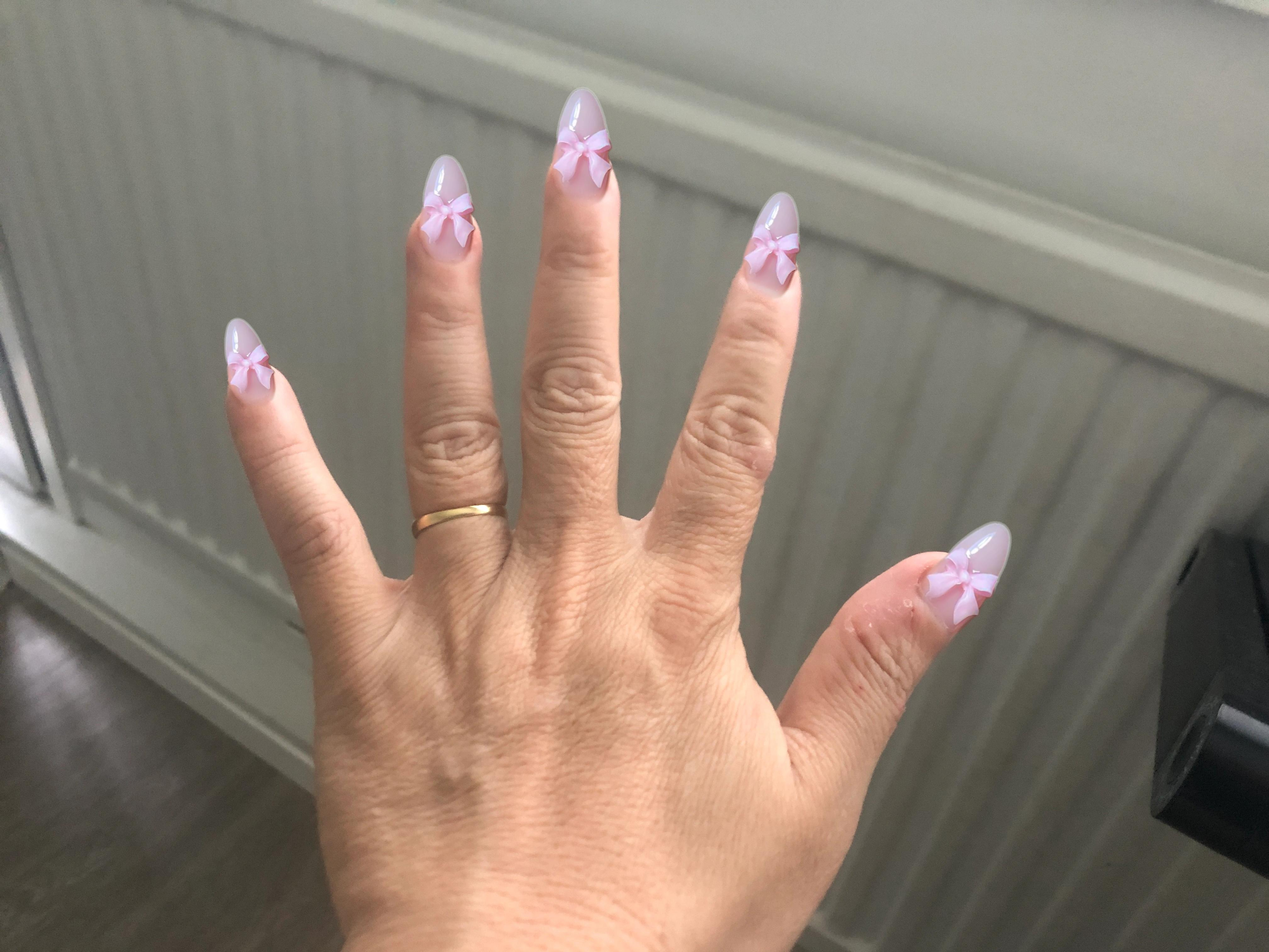
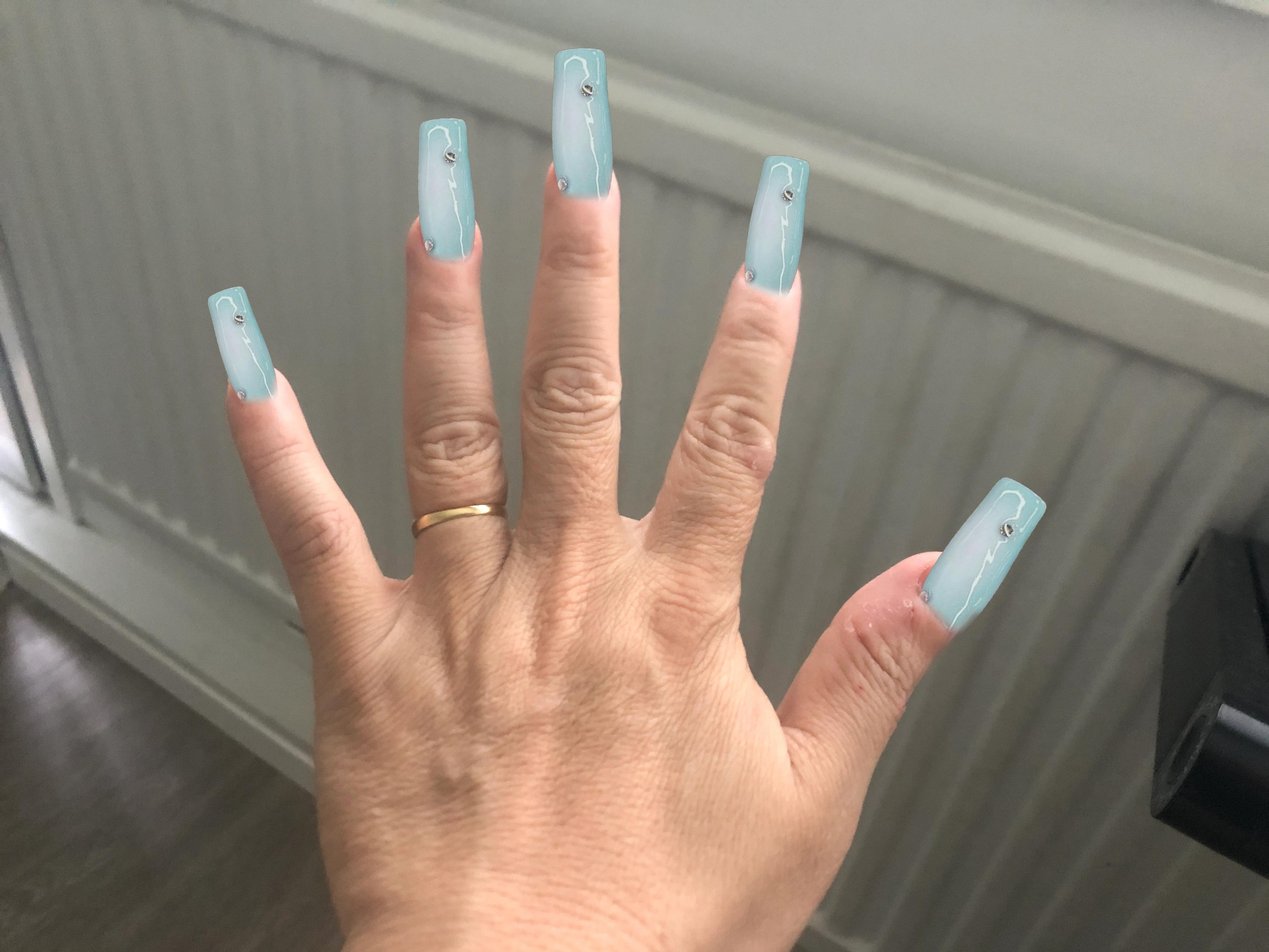
feat: improve static nail painting with per-pixel HSV color matching and normalized depth brightness

diff --git a/experiments/static-painting.py b/experiments/static-painting.py
@@ -1,20 +1,88 @@
 import json
 import sys
 import os
+import colorsys
 
 sys.path.insert(0, os.path.abspath(os.path.join(os.path.dirname(__file__), "..")))
 
 from app.config import MAX_DETECTION_DIM
 from app.services.hand_detector import detect_hands
 from app.services.nail_detector import detect_nails, filter_nails_by_hands
-from PIL import Image, ImageDraw, ImageFilter, ImageChops, ImageOps, ImageEnhance
+from PIL import Image, ImageDraw, ImageFilter, ImageChops, ImageOps, ImageEnhance, ImageStat
 import math
 
-GAUSSIAN_BLUR=24
-DEPTH_BRIGHTNESS_MULTIPLIER=10
 
 ORIGINAL_IMAGE = "sample-images/hand.webp"
-REFERENCE_IMAGE = "sample-images/sample.png"
+REFERENCE_IMAGE = "sample-images/sample-2.png"
+
+
+GAUSSIAN_BLUR=12
+
+# Color matching defaults
+COLOR_MATCH_HUE_SHIFT = 0.04       # max hue shift toward base image (0-1, fraction of hue circle)
+COLOR_MATCH_SATURATION = 0.15      # how much to blend saturation toward base image (0-1)
+COLOR_MATCH_BRIGHTNESS = 0.2       # how much to blend brightness toward base image (0-1)
+
+
+def get_base_image_color_profile(base_image):
+    """Analyze base image and return average HSV values."""
+    small = base_image.resize((64, 64), Image.Resampling.LANCZOS)
+    stat = ImageStat.Stat(small)
+    r_mean = stat.mean[0] / 255.0
+    g_mean = stat.mean[1] / 255.0
+    b_mean = stat.mean[2] / 255.0
+    h, s, v = colorsys.rgb_to_hsv(r_mean, g_mean, b_mean)
+    return {"hue": h, "saturation": s, "brightness": v}
+
+
+def apply_color_matching(nail_img, base_profile):
+    """Subtly adjust nail HSV per-pixel to harmonize with base image."""
+    if nail_img.mode != "RGBA":
+        nail_img = nail_img.convert("RGBA")
+
+    r, g, b, a = nail_img.split()
+    rgb_img = Image.merge("RGB", (r, g, b))
+    hsv_img = rgb_img.convert("HSV")
+    h, s, v = hsv_img.split()
+
+    # Compute circular hue shift toward base hue
+    base_h = base_profile["hue"]
+    hue_diff = base_h
+    # We'll shift each pixel's hue by a fraction of the shortest path to base_h
+    # Build a lookup table for hue channel (0-255)
+    h_lut = []
+    for i in range(256):
+        ph = i / 255.0
+        diff = base_h - ph
+        if diff > 0.5:
+            diff -= 1.0
+        elif diff < -0.5:
+            diff += 1.0
+        shifted = ph + diff * COLOR_MATCH_HUE_SHIFT
+        h_lut.append(int(shifted % 1.0 * 255))
+    h_new = h.point(h_lut)
+
+    # Saturation: blend each pixel toward base saturation
+    base_s = base_profile["saturation"]
+    s_lut = []
+    for i in range(256):
+        ps = i / 255.0
+        blended = ps + (base_s - ps) * COLOR_MATCH_SATURATION
+        s_lut.append(int(max(0.0, min(1.0, blended)) * 255))
+    s_new = s.point(s_lut)
+
+    # Value/brightness: blend each pixel toward base brightness
+    base_v = base_profile["brightness"]
+    v_lut = []
+    for i in range(256):
+        pv = i / 255.0
+        blended = pv + (base_v - pv) * COLOR_MATCH_BRIGHTNESS
+        v_lut.append(int(max(0.0, min(1.0, blended)) * 255))
+    v_new = v.point(v_lut)
+
+    hsv_matched = Image.merge("HSV", (h_new, s_new, v_new))
+    rgb_matched = hsv_matched.convert("RGB")
+    return Image.merge("RGBA", (*rgb_matched.split(), a))
 
 def load_or_compute(json_path, compute_fn):
     if os.path.exists(json_path):
@@ -93,7 +161,7 @@ def compute_adjusted_points(points, cx, cy, angle, shifted_x, shifted_y, rw, rh)
     return adjusted
 
 
-def draw_nail_polish(base_image, ref_image, points, cx, cy, angle, w, h, z=None):
+def draw_nail_polish(base_image, ref_image, points, cx, cy, angle, w, h, z=None, base_color_profile=None):
     ref_w = max(w, h)
     _rx, _rh = ref_image.size
     ref_height = ref_w * _rh / _rx
@@ -101,11 +169,20 @@ def draw_nail_polish(base_image, ref_image, points, cx, cy, angle, w, h, z=None)
 
     rotated_img = resized_img.rotate(-float(angle + 90), expand=True)
 
+    # Apply depth-based brightness
     if z is not None:
-        brightness_factor = 1.0 - float(z) * DEPTH_BRIGHTNESS_MULTIPLIER
-        brightness_factor = max(0.5, min(1.5, brightness_factor))
+        z = float(z)
+        Z_MIN, Z_MAX = -0.08, 0.08
+        depth_ratio = (z - Z_MIN) / (Z_MAX - Z_MIN)
+        depth_ratio = max(0.0, min(1.0, depth_ratio))
+        brightness_factor = 1.0 / (1.0 + depth_ratio * 1.5)
         enhancer = ImageEnhance.Brightness(rotated_img)
         rotated_img = enhancer.enhance(brightness_factor)
+
+    # Apply base image color matching
+    if base_color_profile is not None:
+        rotated_img = apply_color_matching(rotated_img, base_color_profile)
+
     rw, rh = rotated_img.size
 
     paste_x = int(cx - rw / 2)
@@ -211,6 +288,9 @@ def main():
     mask_image = Image.new("RGB", (width, height), (0, 0, 0))
     mask_draw = ImageDraw.Draw(mask_image)
 
+    # Analyze base image colors once
+    base_color_profile = get_base_image_color_profile(base_image)
+
     for nail in filtered_nails:
         points = [(float(p["x"]), float(p["y"])) for p in nail.get("points", [])]
         cx = nail.get("x")
@@ -220,7 +300,7 @@ def main():
         h = nail.get("height", 0)
         z = nail.get("z")
 
-        draw_nail_polish(base_image, ref_image, points, cx, cy, angle, w, h, z)
+        draw_nail_polish(base_image, ref_image, points, cx, cy, angle, w, h, z, base_color_profile)
         draw_nail_debug(mask_draw, points, cx, cy, angle, w, h)
 
     save_and_show_results(mask_image, base_image)
